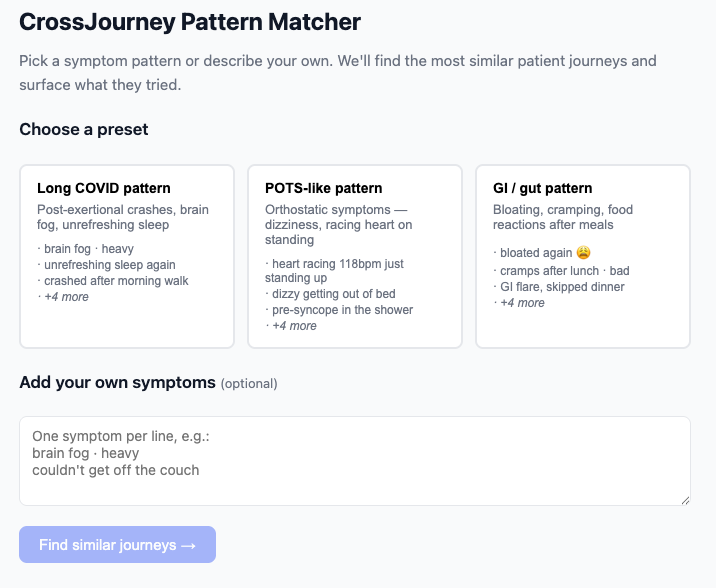
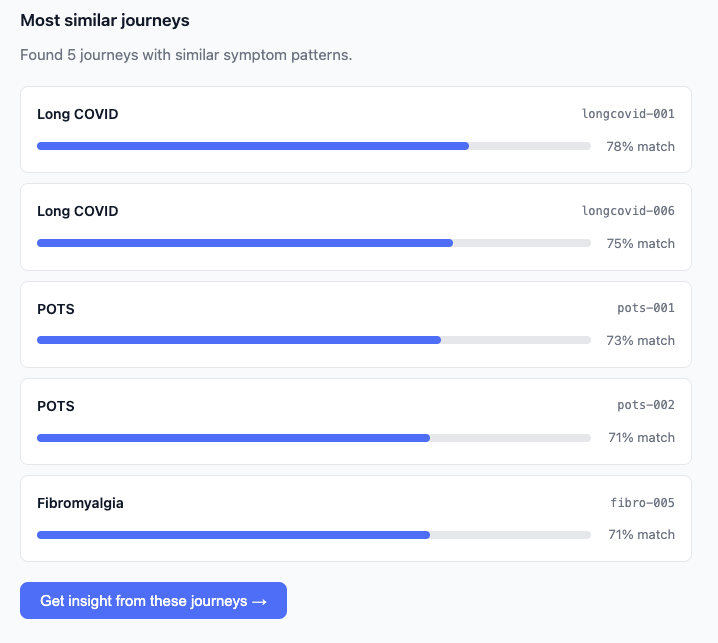
Fix screenshot order and filenames in README walkthrough

diff --git a/README.md b/README.md
@@ -58,17 +58,17 @@ first, then see what they explored.
 
 ## Walkthrough
 
-**1. Landing page — pick a preset or describe your own symptoms**
+**1. Insights — patterns, interventions, and confidence from the matched cohort**
+
+![Insight view showing summary, observed patterns, interventions table with cohort evidence, and a confidence card](docs/insights.png)
+
+**2. Landing page — pick a preset or describe your own symptoms**
 
 ![Landing page showing three preset symptom pattern cards and a custom symptom editor](docs/landing-page.png)
 
-**2. Journey similarity — top-5 matched journeys with cosine similarity scores**
+**3. Journey similarity — top-5 matched journeys with cosine similarity scores**
 
 ![Matches view showing five patient journeys ranked by similarity percentage with score bars](docs/journey-similarity.png)
-
-**3. Insights — patterns, interventions, and confidence from the matched cohort**
-
-![Insight view showing summary, observed patterns, interventions table with cohort evidence, and a confidence card](docs/insights.png)
 
 ---
 